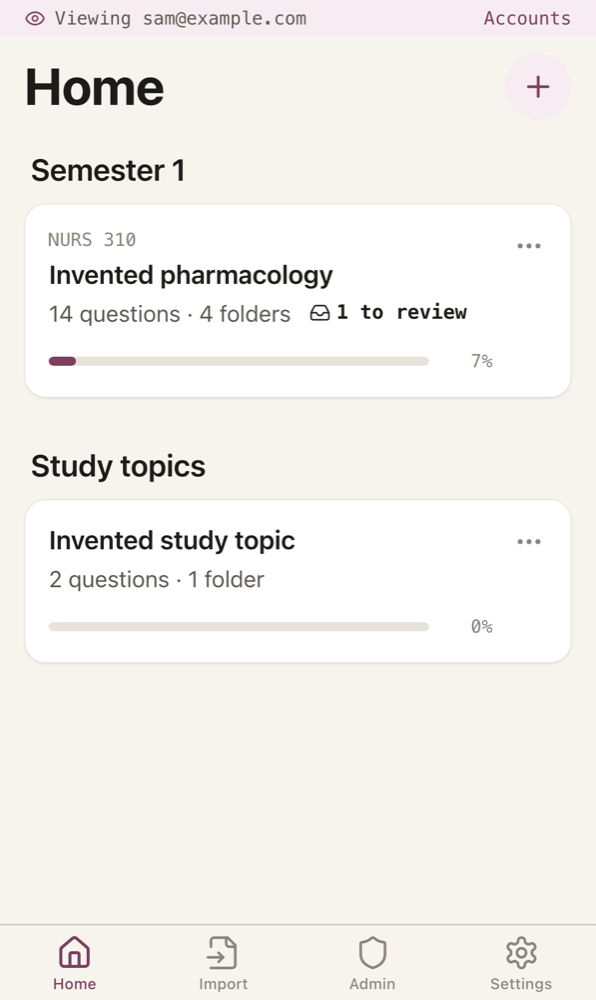
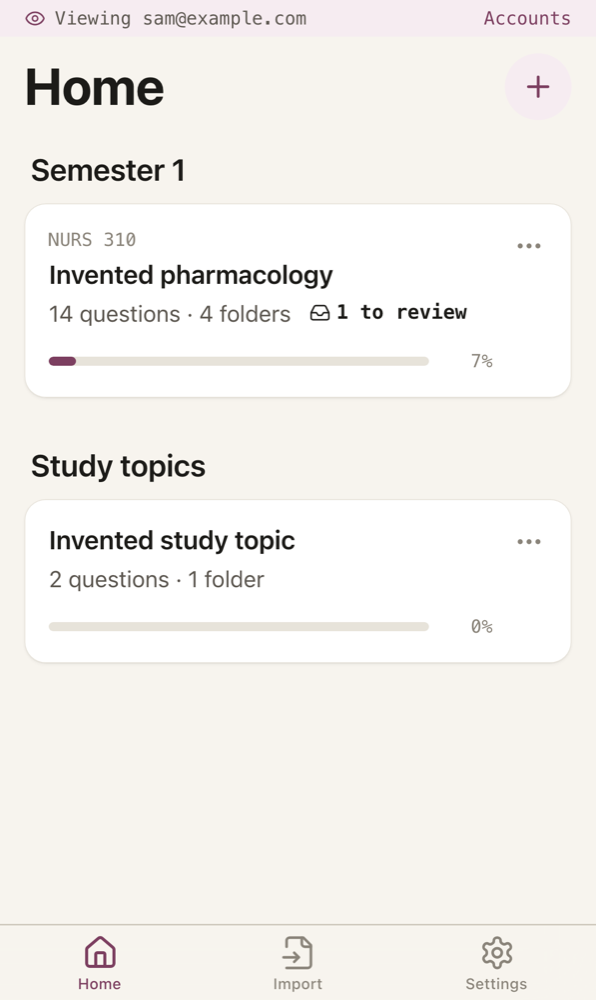
feat(web): give the frozen view the user's navigation
The Admin nav item made the frozen view's tabs and sidebar differ from the
user's. While the thin line is on screen, the navigation is now the user's
and the line's Accounts link is the way to Admin. Admin and Settings, which
are the admin's own, keep the item, and so does a session with no account
to view, which has no line. Home goes from Admin back to the frozen Home.

Controls still answer at the entry point: their sheets do not open.

diff --git a/e2e/frozen.spec.ts b/e2e/frozen.spec.ts
@@ -123,14 +123,32 @@ test.describe("the owner's frozen view", () => {
     await row.click();
     await expect(admin.getByRole("heading", { level: 1, name: "Home" })).toBeVisible();
     await expect(admin.getByText(`Viewing ${other.email}`)).toBeVisible();
+    // The frozen view has the user's navigation. Accounts is the way to Admin, and Home the way back.
+    const sections = admin.getByRole("navigation", { name: /^(Sections|Tabs)$/ }).getByRole("link");
+    await expect(sections).toHaveText(["Home", "Import", "Settings"]);
     await admin.getByRole("link", { name: "Accounts" }).click();
     await expect(admin.getByRole("list", { name: "User accounts" }).getByRole("button", { name: new RegExp(other.email) })).toContainText("Viewing");
+    await expect(sections).toHaveText(["Home", "Import", "Admin", "Settings"]);
+    await expect(admin.getByRole("link", { name: "Accounts" })).toHaveCount(0);
+    await sections.getByText("Home").click();
+    await expect(admin.getByText(`Viewing ${other.email}`)).toBeVisible();
     await admin.context().close();
 
     await userPage.goto("/admin");
     await expect(userPage.getByRole("heading", { level: 1, name: "Not found" })).toBeVisible();
     await expect(userPage.getByRole("link", { name: "Admin" })).toHaveCount(0);
     await expect(userPage.getByText("Viewing ", { exact: false })).toHaveCount(0);
+  });
+
+  test("with no account to view there is no line, and the navigation keeps Admin", async ({ browser }) => {
+    const admin = await adminPage(browser);
+    await admin.route("**/api/admin/students", (route) => route.fulfill({ json: { students: [], viewingId: null } }));
+    await admin.goto("/");
+    await expect(admin.getByRole("heading", { level: 1, name: "Home" })).toBeVisible();
+    await expect(admin.getByRole("link", { name: "Accounts" })).toHaveCount(0);
+    await admin.getByRole("navigation", { name: /^(Sections|Tabs)$/ }).getByRole("link", { name: "Admin" }).click();
+    await expect(admin.getByText("No user account yet.", { exact: false })).toBeVisible();
+    await admin.context().close();
   });
 
   test("each control answers with the note and sends no request, and rows open as they do for the user", async ({ browser }) => {

diff --git a/e2e/login.spec.ts b/e2e/login.spec.ts
@@ -147,7 +147,7 @@ test.describe("signed-in account", () => {
 
   test("the admin resets her password, and she chooses her own", async ({ page }) => {
     await signIn(page, ADMIN_EMAIL, ADMIN_PASSWORD);
-    await page.getByRole("link", { name: "Admin" }).click();
+    await page.getByRole("link", { name: "Accounts" }).click();
     const denied = await page.request.post("/api/attempts", {
       data: {
         clientAttemptId: crypto.randomUUID(),
@@ -184,7 +184,7 @@ test.describe("sign-up", () => {
   test("the admin lets an email sign up, and only that email gets an account", async ({ page }) => {
     const email = `new-${String(Date.now())}@example.com`;
     await signIn(page, ADMIN_EMAIL, ADMIN_PASSWORD);
-    await page.getByRole("link", { name: "Admin" }).click();
+    await page.getByRole("link", { name: "Accounts" }).click();
     await page.getByLabel("Email to add").fill(email);
     await page.getByRole("button", { name: "Add email" }).click();
     const list = page.getByRole("list", { name: "Emails that can sign up" });
@@ -221,14 +221,14 @@ test.describe("sign-up", () => {
     await page.getByRole("button", { name: "Sign out", exact: true }).click();
 
     await signIn(page, ADMIN_EMAIL, ADMIN_PASSWORD);
-    await page.getByRole("link", { name: "Admin" }).click();
+    await page.getByRole("link", { name: "Accounts" }).click();
     await expect(list.getByRole("listitem").filter({ hasText: email })).toContainText("Has an account");
     const accounts = page.getByRole("list", { name: "User accounts" });
     await accounts.getByRole("button", { name: new RegExp(email) }).click();
     await expect(page.getByRole("heading", { level: 1, name: "Home" })).toBeVisible();
     await expect(page.getByText(`Viewing ${email}`)).toBeVisible();
 
-    await page.getByRole("link", { name: "Admin" }).click();
+    await page.getByRole("link", { name: "Accounts" }).click();
     await expect(page.getByText(`For ${email}.`, { exact: false })).toBeVisible();
     await page.getByRole("list", { name: "User accounts" }).getByRole("button", { name: new RegExp(STUDENT_EMAIL) }).click();
     await expect(page.getByText(`Viewing ${STUDENT_EMAIL}`)).toBeVisible();

diff --git a/apps/web/src/shell/AppShell.tsx b/apps/web/src/shell/AppShell.tsx
@@ -12,6 +12,7 @@ import { JobScreen } from "../make/JobScreen";
 import { MakeScreen } from "../make/MakeScreen";
 import { matchDetail, matchExam, matchMake, matchPractice, navigate, normalizePath, usePathname, useSearch } from "../router";
 import { inSection, matchRoute, navigationFor } from "../routes";
+import { useStudents } from "../students";
 import { FrozenLine } from "../components/FrozenLine";
 import { FrozenNote } from "../components/FrozenNote";
 import { UndoToast } from "../components/UndoToast";
@@ -30,7 +31,6 @@ import { useMediaQuery, WIDE_LAYOUT_QUERY } from "./useMediaQuery";
 export function AppShell({ role }: { role: Role }) {
   const pathname = usePathname();
   const wide = useMediaQuery(WIDE_LAYOUT_QUERY);
-  const items = navigationFor(role);
   const route = matchRoute(pathname);
   const detail = useMemo(() => matchDetail(pathname), [pathname]);
   const search = useSearch();
@@ -42,8 +42,13 @@ export function AppShell({ role }: { role: Role }) {
   // The runner fills the screen: no tab bar, and the screen does not scroll behind it.
   const runner = practice !== null || exam !== null;
   const ScreenBody = route?.Screen ?? NotFoundScreen;
-  // Admin and Settings are the admin's own. Every other screen is the account being viewed, frozen.
-  const frozenScreen = role === "admin" && !inSection(pathname, "/admin") && !inSection(pathname, "/settings");
+  // Admin and Settings are the admin's own. Every other screen is the account being viewed, frozen,
+  // and has the user's navigation: the line's Accounts goes to Admin. With no account to view, the
+  // line goes and the navigation keeps Admin. Until the list is read the line holds its place.
+  const students = useStudents(role === "admin");
+  const viewing = students?.viewingId !== null;
+  const frozenScreen = role === "admin" && viewing && !inSection(pathname, "/admin") && !inSection(pathname, "/settings");
+  const items = navigationFor(frozenScreen ? "student" : role);
   const width = make ? "reading" : (detail?.width ?? route?.width);
 
   useEffect(() => {

diff --git a/e2e/questions.spec.ts b/e2e/questions.spec.ts
@@ -168,7 +168,7 @@ test.describe("admin import", () => {
 
     await signIn(page, ADMIN_EMAIL, ADMIN_PASSWORD);
     await page.goto("/import");
-    await expect(page.getByRole("link", { name: "Admin" })).toBeVisible();
+    await expect(page.getByRole("link", { name: "Accounts" })).toBeVisible();
     await page.getByLabel("Paste JSON").fill(file(title, ["An invented mobility stem."]));
     await page.getByLabel("Course code").fill(code);
     await page.getByLabel("Course name").fill("Foundations");

diff --git a/apps/web/src/components/FrozenLine.tsx b/apps/web/src/components/FrozenLine.tsx
@@ -4,7 +4,7 @@ import { Icon } from "./Icon";
 
 /**
  * Whose account is on screen, in a band of its own above the app, so the screens under it lay out
- * as the user's do. Accounts goes back to the Admin page, also out of an exam, which has no way back of its own.
+ * as the user's do. Accounts is the way to the Admin page, also out of an exam, which has no way back of its own.
  */
 export function FrozenLine() {
   const student = viewedStudent(useStudents(true));

diff --git a/docs/product-spec.md b/docs/product-spec.md
@@ -181,7 +181,7 @@ The clickable wireframes from the planning phase are the reference for every sta
 - An empty semester says: "No courses yet. Tap + to add one, or import its first question file." An empty Study topics group says: "A topic is a place for questions that are not a course: a certification, a language, your own notes."
 - **Archived**, after the groups and closed until she opens it, only when a semester, course, or topic is archived. The sidebar does not list archived items.
 - **Recently deleted**, last on the page: once she has deleted a course or topic, a row ("2 items · Undo for 30 days") opens Home's Recently deleted (see [Delete and Undo](#delete-and-undo)).
-- Navigation: Home, Import, Settings (bottom tabs on iPhone, sidebar on iPad and Mac; see [Platforms and layouts](#platforms-and-layouts)). The owner also gets Admin (see [The owner's admin account](#the-owners-admin-account)).
+- Navigation: Home, Import, Settings (bottom tabs on iPhone, sidebar on iPad and Mac; see [Platforms and layouts](#platforms-and-layouts)). The owner also reaches Admin (see [The owner's admin account](#the-owners-admin-account)).
 
 ### Course
 
@@ -330,11 +330,11 @@ Courses, study topics, exam and study pages, sets, folders, and past exams can b
 
 ### The owner's admin account
 
-He signs in the same way, with his own login, and lands on the Home of the user account he is looking at. His navigation is Home, Import, Admin, and Settings. He sees that account only.
+He signs in the same way, with his own login, and lands on the Home of the user account he is looking at. On the frozen screens his navigation is the user's: Home, Import, and Settings. On Admin and Settings, which are his own, and when there is no account to view, it adds Admin. He sees that account only.
 
 - **The frozen view:** Home, a course or topic, its pages and folders, Review, Exam setup, Terms, Recently deleted, Import, and the practice and exam runners look as they do for that user, in that user's words. Rows that open for the user open here too, reading only: a set opens in the practice runner, a past exam its result, a running exam its runner. Each control that would change something, such as +, Rename, Edit, Select, Delete, Undo, Restore, Check answer, Start exam, End exam, and Import, answers with one short note and sends nothing: "This is a frozen view of sam@example.com. Nothing here can be changed." The iPhone says the same. If a refusal still comes back from the server (403 `admin_read_only`), it says the same note.
 - **What stays local in that view:** picking a choice, ticking folders on Exam setup with its plan, Skip for now, and Check file on Import write nothing, so they work. Time running out on an exam does not end it: only that user's app does.
-- **Whose account is on screen:** one thin line at the very top names the account, in a band of its own, so the screens under it lay out as the user's do, and its **Accounts** links back to Admin. Admin and Settings are his own and have no line.
+- **Whose account is on screen:** one thin line at the very top names the account, in a band of its own, so the screens under it lay out as the user's do, and its **Accounts** is how he gets to Admin. Home in the navigation goes back to the frozen Home. Admin and Settings are his own and have no line, and neither does a session with no account to view.
 - **Admin > User accounts:** the home control page: each user account he may view, with its email, name, and when it was made, and a **Viewing** mark on the one he is looking at. Opening one shows its frozen Home. The temporary password and Repair act on the one marked Viewing. Until he picks, it is the oldest user account. Nobody else has this page.
 - **Admin > temporary password:** reset that account's password by setting a temporary password he gives its user, who chooses their own at their next sign-in. There is no reset email.
 - **Admin > Sign-up list:** add or remove the emails that may sign up, each with "Has an account" or "not signed up yet". Removing an email does not remove an account made with it.
